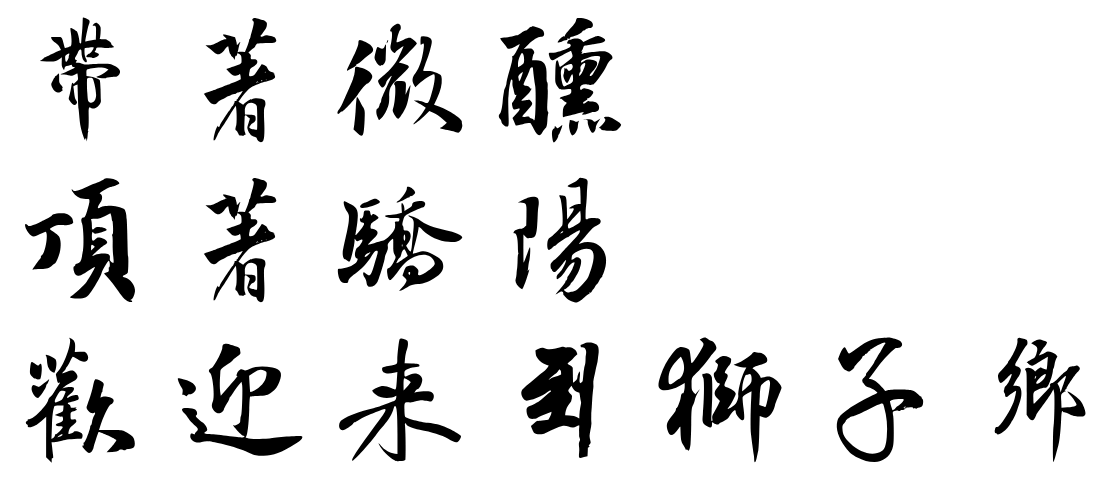
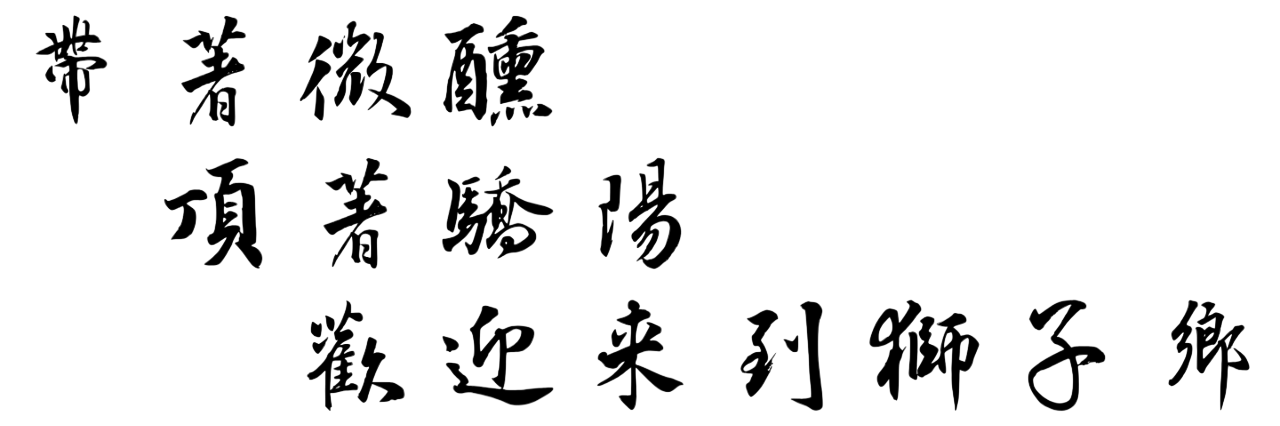
add

diff --git a/src/views/frontend/UserProductDescriptionView.vue b/src/views/frontend/UserProductDescriptionView.vue
@@ -213,13 +213,13 @@ const goBack = () => {
           <div class="text-lg-end mt-4">
             <p class="my-0" :class="product.origin_price !== product.price
               ? 'text-decoration-line-through fs-6 text-secondary'
-              : 'fs-5'">
+              : 'fs-4'">
               <span v-if="product.origin_price !== product.price">原價</span>
               <span v-else>售價</span>
               {{ $filters.currency(product.origin_price) }}元
             </p>
             <div v-if="product.origin_price !== product.price" class="position-relative">
-              <h3 class="fs-4 text-danger fw-bold">現在只要{{ $filters.currency(product.price) }}元!!</h3>
+              <h3 class="fs-3 text-danger fw-bold">現在只要{{ $filters.currency(product.price) }}元!!</h3>
               <img src="@/assets/special-offer.png" alt="特價標示圖"
                 class="w-25 d-none d-lg-block start-100 top-50 position-absolute translate-middle-y">
             </div>
@@ -228,7 +228,8 @@ const goBack = () => {
             <span class="input-group-text">數量</span>
             <input type="number" class="form-control text-end" v-model.number="qty" min="1" @blur="validateQty"
               :disabled="isAdding">
-            <button class="btn btn-info" type="button" @click="addToCart()" :disabled="isAdding">加到購物車</button>
+            <button class="btn btn-info btn-lg" type="button" @click="addToCart()" :disabled="isAdding"><i
+                class="bi bi-cart"></i> 加到購物車</button>
           </div>
         </div>
       </div>

diff --git a/src/views/frontend/UserHomeView.vue b/src/views/frontend/UserHomeView.vue
@@ -85,7 +85,7 @@ const onSubmit = (values, { resetForm }) => {
       <div class="position-absolute top-50 start-0 translate-middle-y w-100">
         <div class="row justify-content-center w-100">
           <div class="col-11 col-lg-6 position-relative">
-            <img src="@/assets/home-bannerText2.png" class="img-fluid" alt="帶著微醺，頂著驕陽，歡迎來到獅子鄉">
+            <img src="@/assets/home-bannerText.png" class="img-fluid" alt="帶著微醺，頂著驕陽，歡迎來到獅子鄉">
             <RouterLink
               class="btn btn-info position-absolute top-100 start-50 translate-middle-x border-light border-2 mt-2 text-nowrap"
               to="/products">

diff --git a/src/views/frontend/UserFavoriteView.vue b/src/views/frontend/UserFavoriteView.vue
@@ -106,7 +106,7 @@ const getProduct = (id) => {
       </div>
     </div>
     <div class="text-center mt-4 p-4 bg-body text-body rounded-4 shadow-sm" v-else>
-      <h5>您的收藏是空的</h5>
+      <h5>您的最愛目前是空的</h5>
       <RouterLink class="btn btn-info mt-3" to="/products">前往選購商品</RouterLink>
     </div>
   </div>
